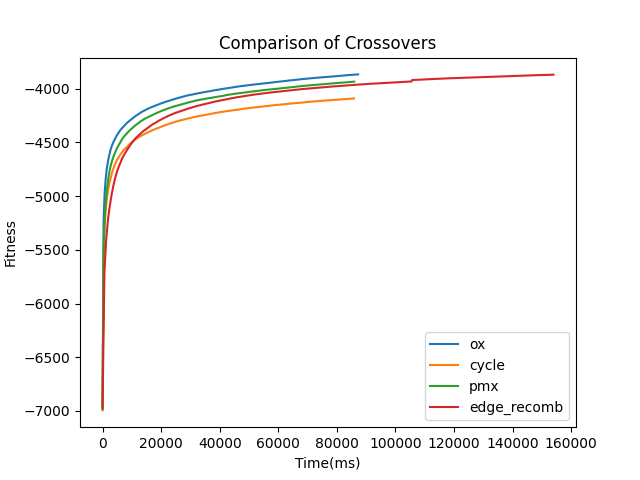
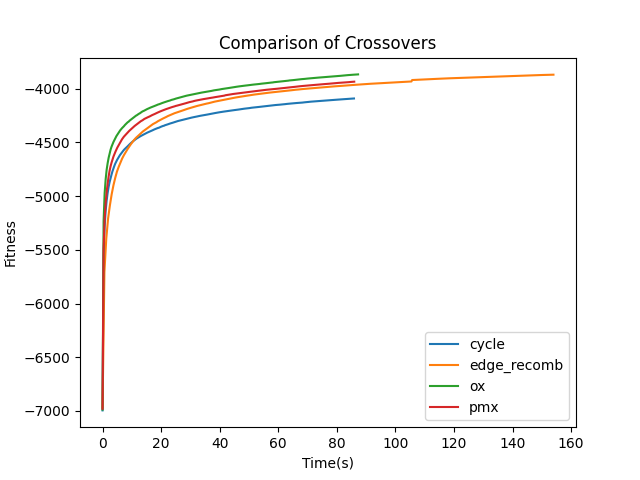
plot ga

diff --git a/proc/plot_ga.py b/proc/plot_ga.py
@@ -4,7 +4,7 @@ import numpy as np
 import os
 from functools import reduce
 
-def get_df():
+def get_df(dst):
     def arg2df(fpath):
         # print(fpath)
         with open(fpath, 'r') as f:
@@ -34,7 +34,6 @@ def get_df():
         # print(pur)
         return pur
         
-    dst = ['../data/ss/', '../data/standard/']
     flist = [path + fname for path in dst for fname in os.listdir(path)]
 
     # v to comment
@@ -70,13 +69,20 @@ def main():
         for col, df_list in re.items():
             l = len(df_list)
             re[col] = reduce(lambda a, b: a.add(b, fill_value=0), df_list).div(l)
-        for col, df in re.items():
-            plt.plot(df[x], df['best'], label=col)
+        items = re.items()
+        ord = {'elitism': 'a', 'tournament': 'aa', 'roulette_wheel': 'aaa'}
+        items = sorted(items, key=lambda x: ord[x[0]] if x[0] in ord else x[0])
+        for col, df in items:
+            if x == 'T':
+                plt.plot(df[x], df['best'], label=col)
+            else:
+                plt.plot(df[x] / 1000.0, df['best'], label=col)
+                # plt.plot(df[x], df['best'], label=col)
         xlabel = ''
         if x == 'T':
             xlabel = 'Generation'
         else:
-            xlabel = 'Time(ms)'
+            xlabel = 'Time(s)'
         plt.xlabel(xlabel)
         plt.ylabel('Fitness')
         columns = ['GA types', 'Selections', 'Replacements', 'Crossovers', 'Mutations']
@@ -94,12 +100,16 @@ def main():
         names = names[:k]
         # print(names)
         for name in names:
-            plt.plot(avg_dfs[name][x], avg_dfs[name]['best'], label=name)
+            if x == 'T':
+                plt.plot(avg_dfs[name][x], avg_dfs[name]['best'], label=name)
+            else:
+                plt.plot(avg_dfs[name][x] / 1000.0, avg_dfs[name]['best'], label=name)
+            # plt.plot(avg_dfs[name][x], avg_dfs[name]['best'], label=name)
         xlabel = ''
         if x == 'T':
             xlabel = 'Generation'
         else:
-            xlabel = 'Time(ms)'
+            xlabel = 'Time(s)'
         plt.xlabel(xlabel)
         plt.ylabel('Fitness')
         plt.title(f'Best GAs over {xlabel}')
@@ -109,12 +119,12 @@ def main():
         # plt.show()
 
     print("Reading and Parsing Data...")
-    dfs = get_df()
+    dfs = get_df(['../data/min-max/ss/', '../data/min-max/standard/'])
     avg_dfs = avg_instance(dfs)
 
     # saves
     print("Analyzing Data and Saving Figures...")
-    pfx = '../figure/'
+    pfx = '../figure/min-max/'
 
     save_bests(avg_dfs, pfx + 'best_T.png', 'T', 5)
     save_bests(avg_dfs, pfx + 'best_t.png', 't', 5)
@@ -129,7 +139,15 @@ def main():
     save_avg_by_index(avg_dfs, 4, pfx + 'mutation_t.png', 't')
     save_avg_by_index(avg_dfs, 4, pfx + 'mutation_T.png', 'T')
 
+def change_name():
+    dst = ['../data/min-max/ss/', '../data/min-max/standard/']
+    for path in dst:
+        for fname in os.listdir(path):
+            if 'invert' in fname:
+                os.rename(path + fname, path + fname.replace('invert', 'inverse'))
+
 if __name__ == '__main__':
     main()
+    # change_name()
     # unite_dataframe('../data/ss/')
     # arg2df('../data/ss/elitism_cycle_insert_0.txt')

diff --git a/cycle_cover.cpp b/cycle_cover.cpp
@@ -26,7 +26,9 @@ int main(int argc, char* argv[]) {
 	if (result) {
 		std::cout << "problem: \n" << *pr.first << '\n';
 		std::cout << "solution: \n" << pr.second << '\n';
-		std::cout << "objective: " << pr.first->objective(pr.second) << '\n';	
+
+		MinMaxProblem ins((*pr.first)(), (*pr.first).get_k());
+		std::cout << "objective: " << ins.objective(pr.second) << '\n';	
 	}
 
     return 0;
